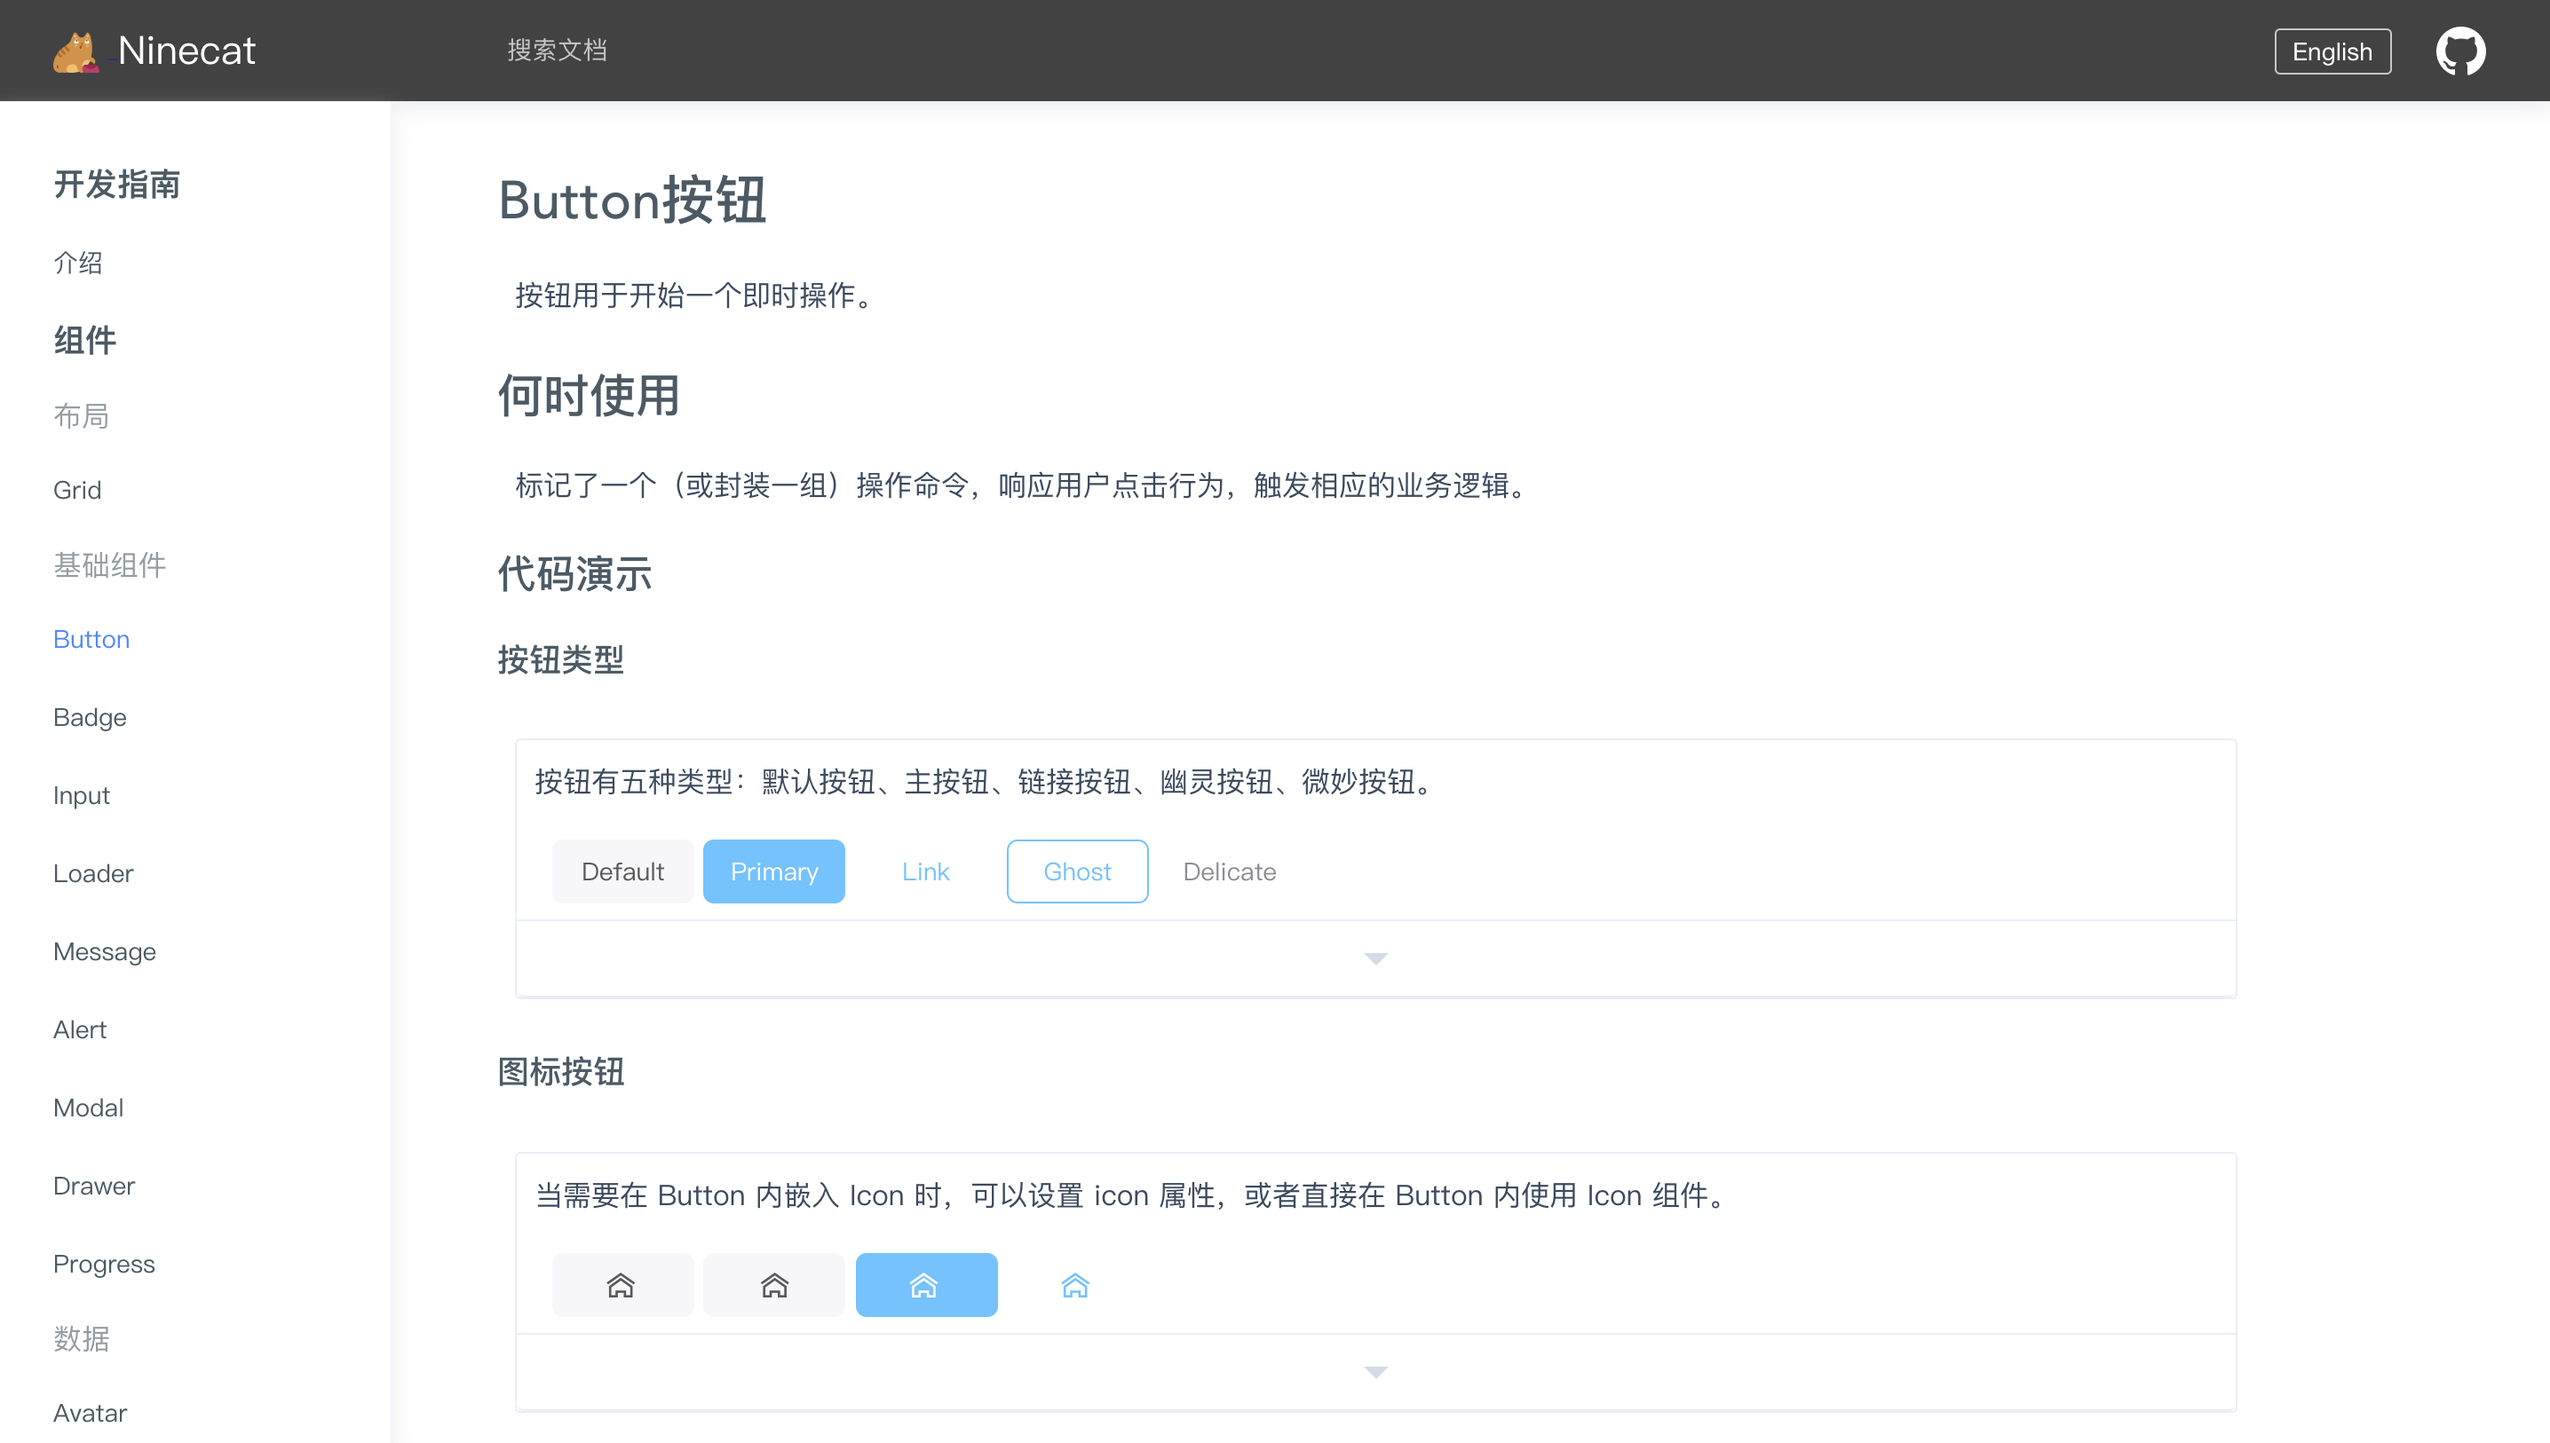
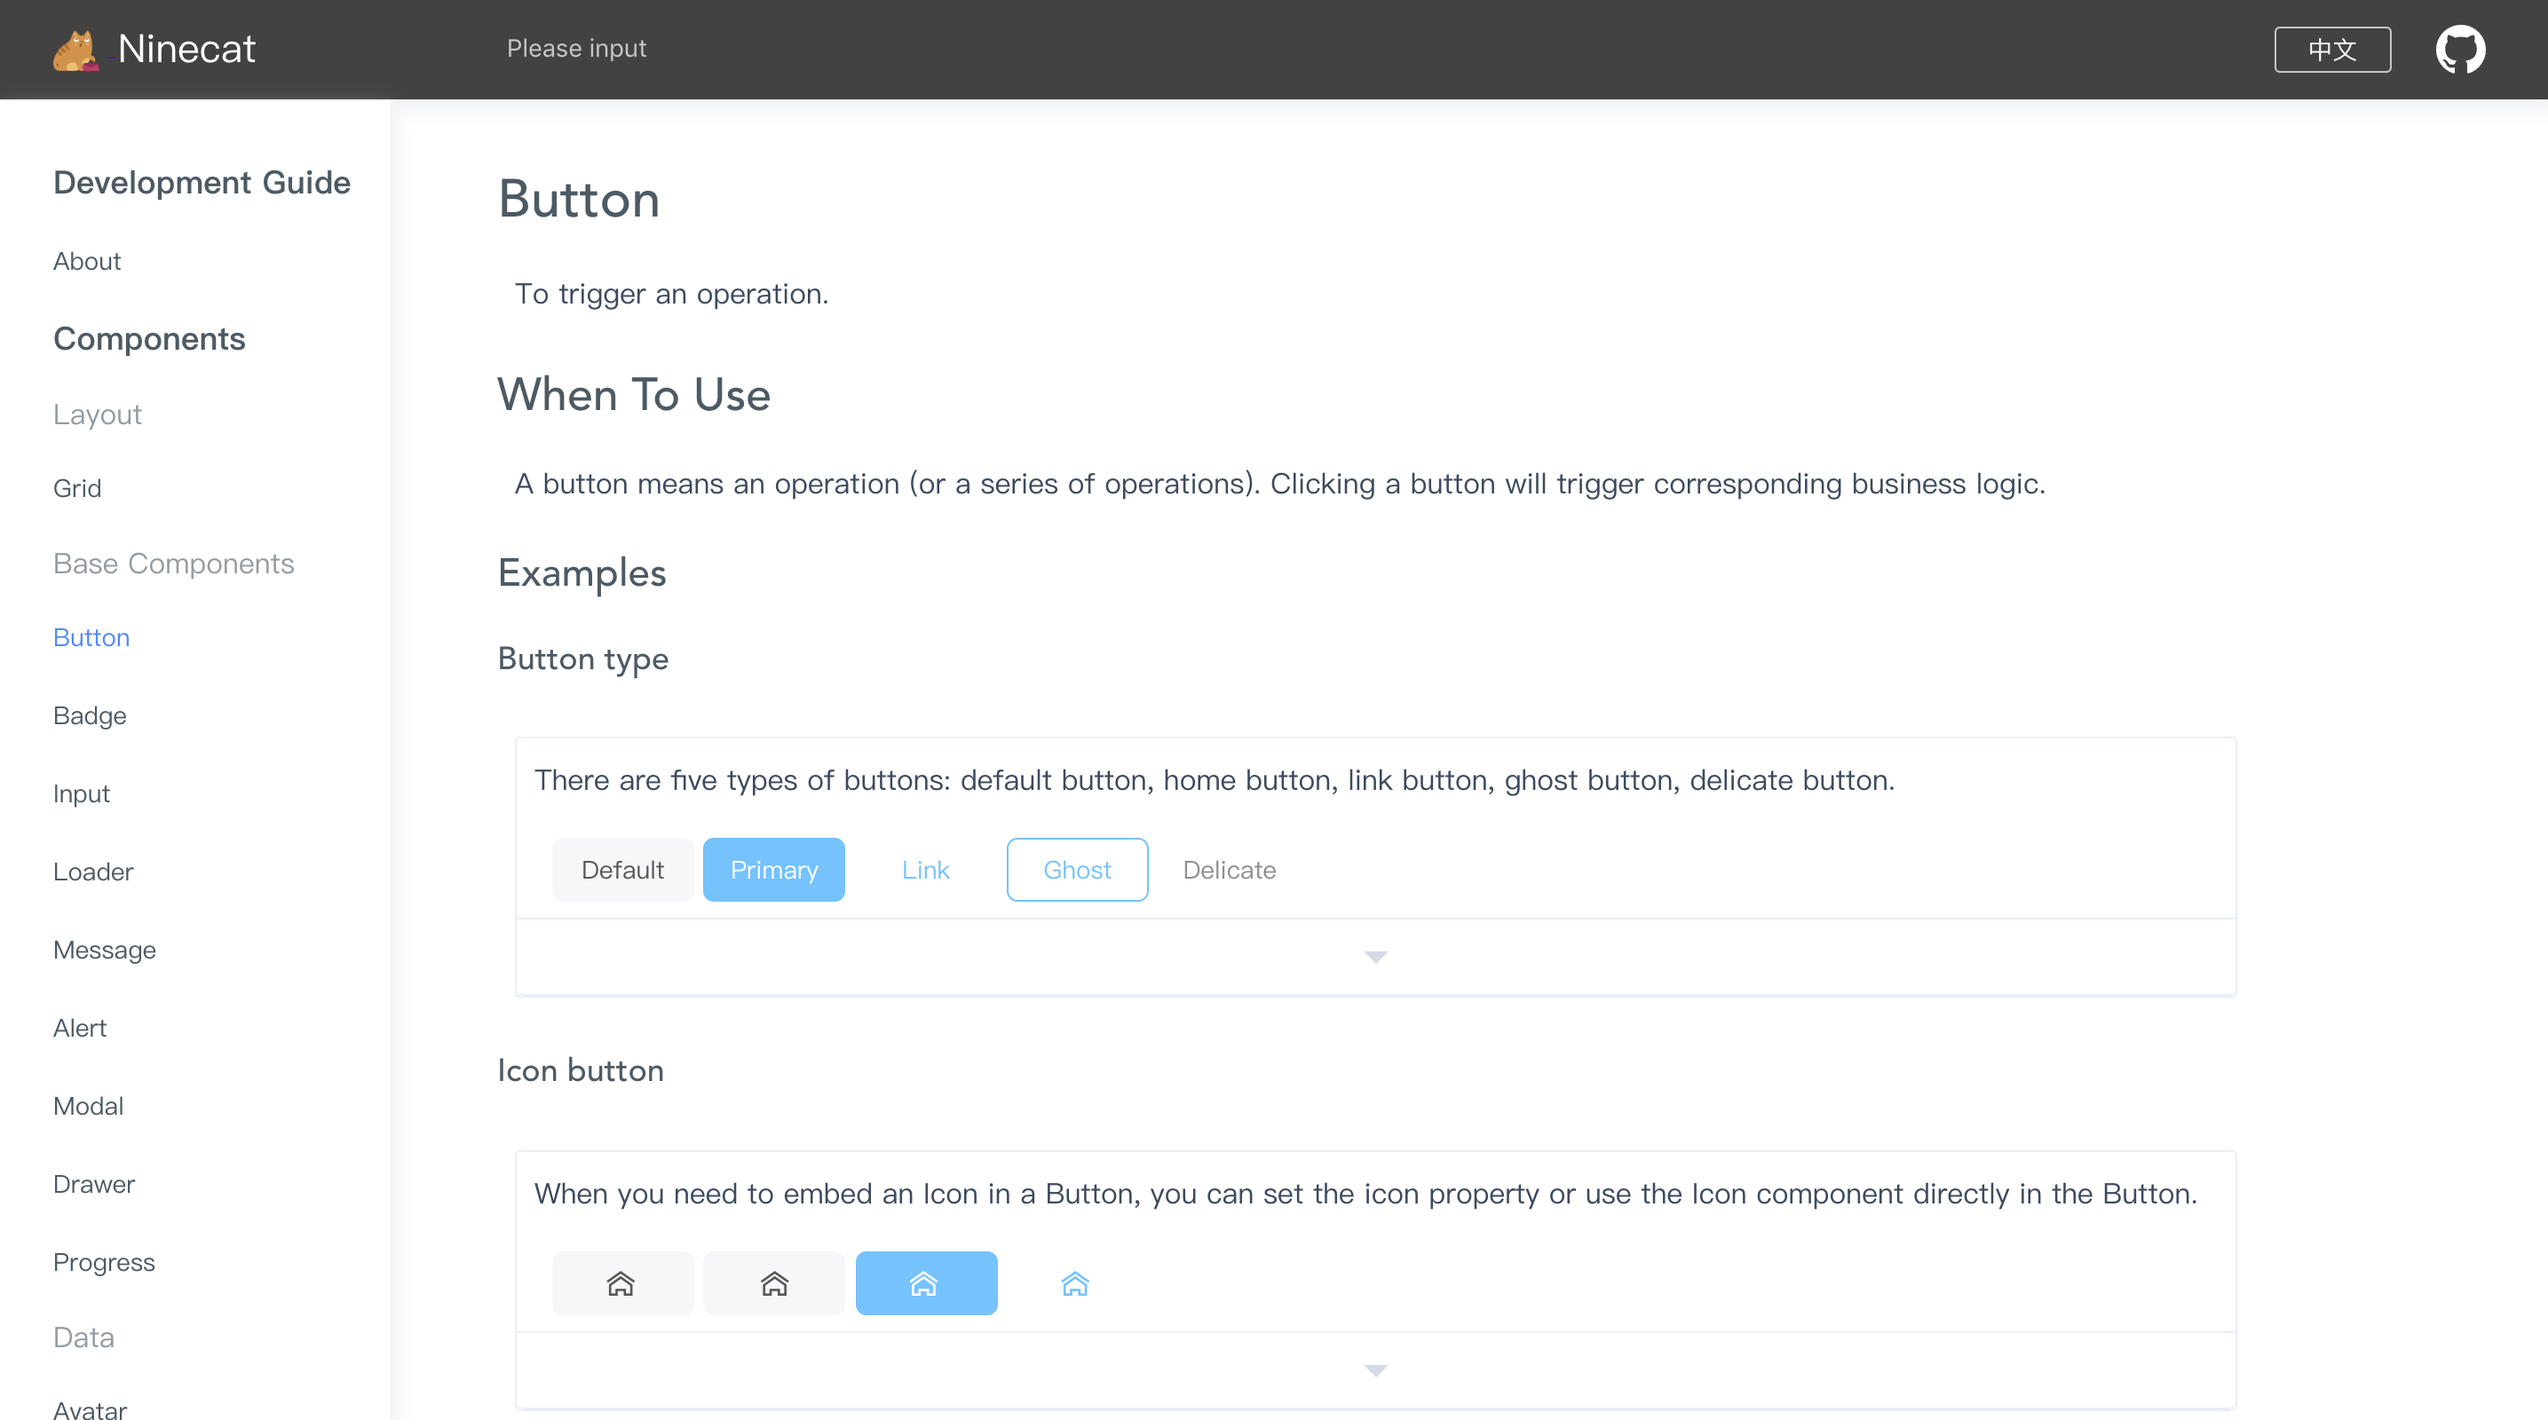
doc: update Screenshot

diff --git a/README.md b/README.md
@@ -22,7 +22,7 @@
 </div>
 
 
-![readme-zh.png](https://github.com/ninecat-ui/ninecat-ui/blob/master/static/readme-zh.png?raw=true)
+<img style="height:100%;width:100%" src="https://github.com/ninecat-ui/ninecat-ui/blob/master/static/readme-en.png?raw=true"/>
 
 English | [简体中文](./README-zh_CN.md)
 

diff --git a/README-zh_CN.md b/README-zh_CN.md
@@ -21,8 +21,8 @@
 
 </div>
 
+<img style="height:100%;width:100%" src="https://github.com/ninecat-ui/ninecat-ui/blob/master/static/readme-zh.png?raw=true"/>
 
-![readme-en.png](https://github.com/ninecat-ui/ninecat-ui/blob/master/static/readme-en.png?raw=true)
 
 简体中文 | [English](./README.md)
 
